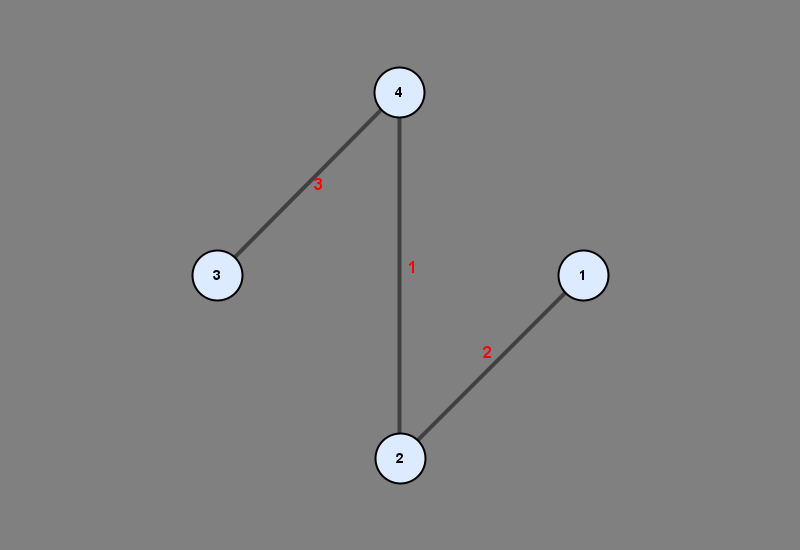
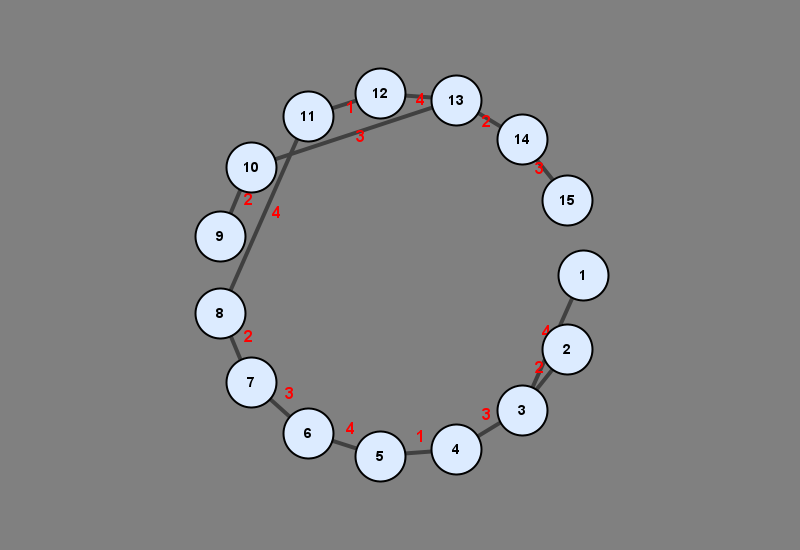
So deus sabe o quanto eu tentei, mas msm assim falhei

Changed region(s): [[0.2188, 0.1236, 0.75, 0.8964], [0.5625, 0.7109, 0.5938, 0.7418]]

diff --git a/src/main/java/Main.java b/src/main/java/Main.java
@@ -13,17 +13,85 @@ public class Main {
         Node b = new Node(2, "B");
         Node c = new Node(3, "C");
         Node d = new Node(4, "D");
+        Node e = new Node(5, "E");
+        Node f = new Node(6, "F");
+        Node g = new Node(7, "G");
+        Node h = new Node(8, "H");
+        Node i = new Node(9, "I");
+        Node j = new Node(10, "J");
+        Node k = new Node(11, "K");
+        Node l = new Node(12, "L");
+        Node m = new Node(13, "M");
+        Node n = new Node(14, "N");
+        Node o = new Node(15, "O");
 
         lista.addVertice(a);
         lista.addVertice(b);
         lista.addVertice(c);
         lista.addVertice(d);
+        lista.addVertice(e);
+        lista.addVertice(f);
+        lista.addVertice(g);
+        lista.addVertice(h);
+        lista.addVertice(i);
+        lista.addVertice(j);
+        lista.addVertice(k);
+        lista.addVertice(l);
+        lista.addVertice(m);
+        lista.addVertice(n);
+        lista.addVertice(o);
 
-        lista.addAresta(a, b, 2);
-        lista.addAresta(a, c, 5);
-        lista.addAresta(b, c, 4);
-        lista.addAresta(b, d, 1);
+        lista.addAresta(a, b, 7);
+        lista.addAresta(a, c, 4);
+        lista.addAresta(a, d, 9);
+        lista.addAresta(a, e, 12);
+
+        lista.addAresta(b, c, 2);
+        lista.addAresta(b, e, 6);
+        lista.addAresta(b, f, 11);
+        lista.addAresta(b, g, 8);
+
         lista.addAresta(c, d, 3);
+        lista.addAresta(c, f, 5);
+        lista.addAresta(c, g, 10);
+
+        lista.addAresta(d, e, 1);
+        lista.addAresta(d, g, 7);
+        lista.addAresta(d, h, 13);
+
+        lista.addAresta(e, f, 4);
+        lista.addAresta(e, h, 8);
+        lista.addAresta(e, i, 15);
+
+        lista.addAresta(f, g, 3);
+        lista.addAresta(f, i, 6);
+        lista.addAresta(f, j, 9);
+
+        lista.addAresta(g, h, 2);
+        lista.addAresta(g, j, 7);
+        lista.addAresta(g, k, 14);
+
+        lista.addAresta(h, i, 5);
+        lista.addAresta(h, k, 4);
+        lista.addAresta(h, l, 10);
+
+        lista.addAresta(i, j, 2);
+        lista.addAresta(i, l, 7);
+        lista.addAresta(i, m, 11);
+
+        lista.addAresta(j, k, 5);
+        lista.addAresta(j, m, 3);
+        lista.addAresta(j, n, 12);
+
+        lista.addAresta(k, l, 1);
+        lista.addAresta(k, n, 6);
+        lista.addAresta(k, o, 9);
+
+        lista.addAresta(l, m, 4);
+        lista.addAresta(l, o, 7);
+
+        lista.addAresta(m, n, 2);
+        lista.addAresta(n, o, 3);
 
         System.out.println("GRAFO ORIGINAL:");
         lista.mostrarLista();
